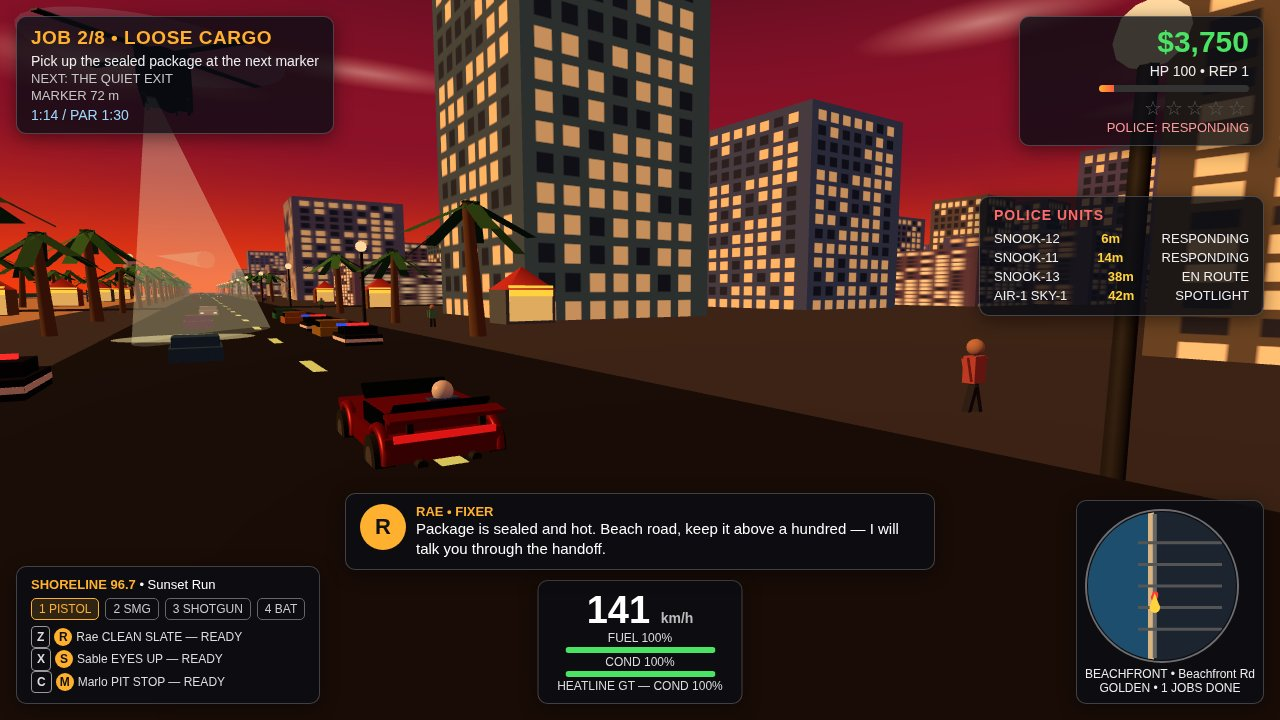
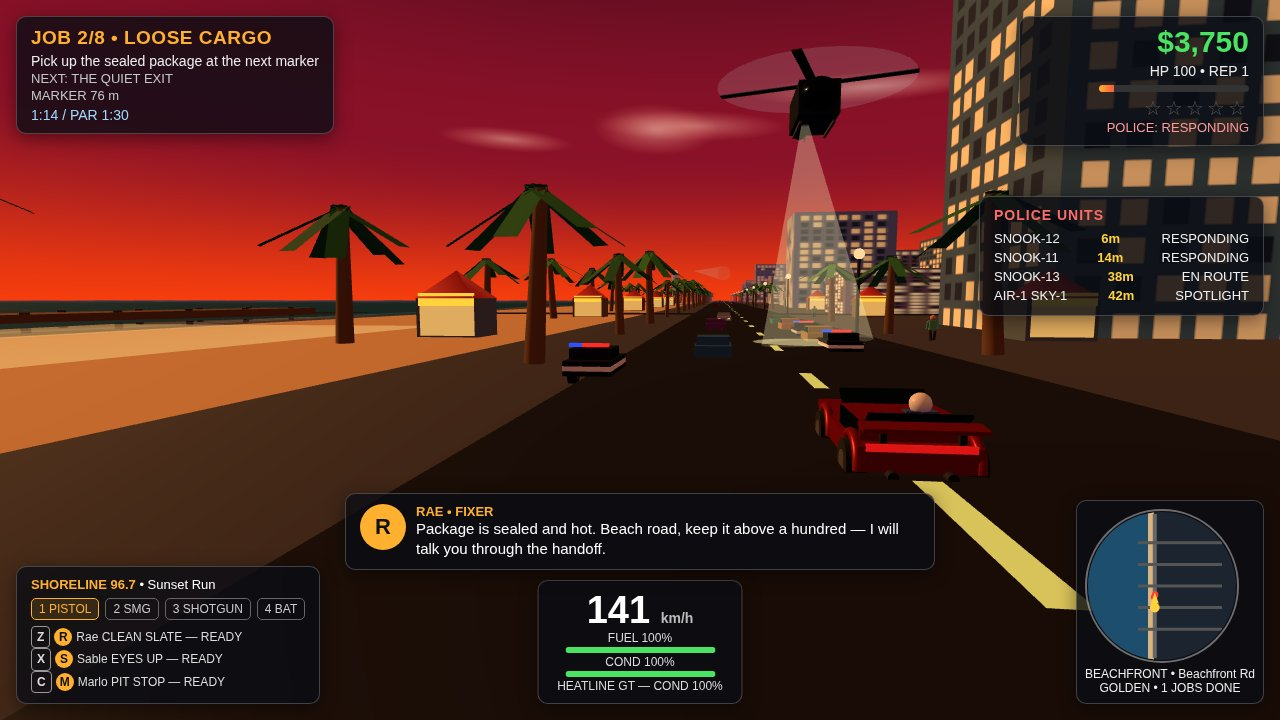
v11 fix round 7: car spawns 4m from player so E works at spawn

diff --git a/game/src/main.js b/game/src/main.js
@@ -206,7 +206,7 @@ function tryEnterExit() {
     player.group.position.copy(hero.group.position).add(new THREE.Vector3(2.5, 0, 0));
     player.group.rotation.y = heading;
     player.group.visible = true;
-  } else if (hero.group.position.distanceTo(player.group.position) < 6) {
+  } else if (hero.group.position.distanceTo(player.group.position) < 8) {
     S.driving = true;
     player.group.visible = false;
     toast('HEATLINE GT — COND ' + Math.round(S.cond) + '%');

diff --git a/game/src/config.js b/game/src/config.js
@@ -17,7 +17,7 @@ export const MAP = {
   lighthouse: { x: -105, z: -480 }, // loop end (job 8)
   pier: { x: -130, z: 60 },
   playerSpawn: { x: -60, z: -40 },
-  carSpawn: { x: -52, z: -40 },
+  carSpawn: { x: -56, z: -40 },    // 4 m from the player: E works at spawn
   marker1: { x: -60, z: 4 },      // ~44 m from both spawns: no instant trigger
 };
 
